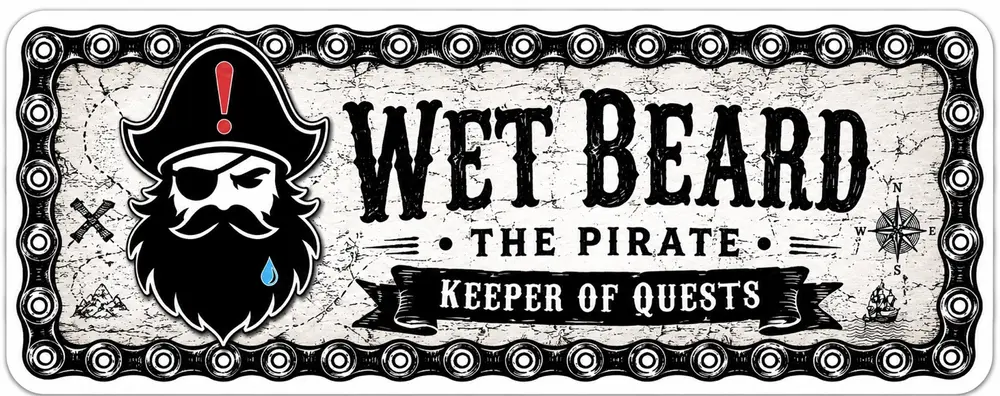
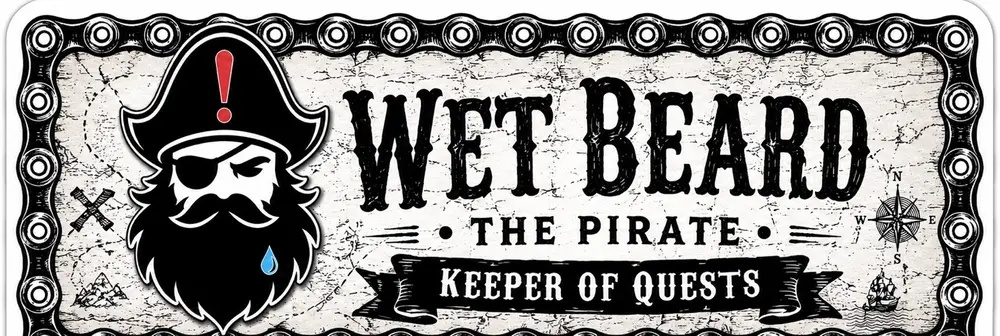
Refine quest-first rider layout

diff --git a/assets/style.css b/assets/style.css
@@ -154,3 +154,15 @@ html,body{background:#181817;color:var(--ink)}
 .admin-table-wrap,.rider-table-wrap{border-color:#333;background:#e7e4dc}.rider-table thead{background:#292928;color:#f3f1eb}.rider-table tbody tr:nth-child(even){background:#d8d5cd}.rider-table tbody tr.selected{background:#c5c2ba;box-shadow:inset 4px 0 #222}
 .live-banner{background:#e5e2da;color:#252524;border-color:#555}.pulse{background:#555;box-shadow:0 0 6px #777}
 footer{color:#343330;text-shadow:0 1px #f5f2e9}
+
+
+/* Quest-first layout refinement. */
+.site-masthead .header-logo{aspect-ratio:1000/336;max-height:172px}.site-masthead .header-logo img{object-fit:cover}
+.site-masthead .rider-strip>strong{font-family:Georgia,"Times New Roman",serif;font-size:15px;letter-spacing:.2px}.site-masthead .rider-star-balance{font-size:14px}.site-masthead .rider-star-balance small{font-size:7px}
+.podium{margin:3px 1px 4px;padding:1px 4px 3px}.board-title{font:900 10px/1.1 system-ui;letter-spacing:1.3px;margin-bottom:1px}.rank-medal{width:23px;height:23px;font-size:12px}.rank-1 .rank-medal{width:27px;height:27px}.rider-name{font:800 11px/1.1 system-ui}.rider-score{font:800 9px/1 system-ui}.rider-score .coin{width:14px;height:14px}
+.quest-wrap{margin:8px 7px 9px}.quest-card{isolation:isolate;min-height:285px;padding:17px 16px 13px 72px;border:4px double #181817;border-radius:6px;background-color:#ece9e1;background-image:linear-gradient(#f5f3edcc,#e7e3dac7),url("img/map-bleached.webp"),url("img/parchment-bleached.webp");background-position:center,center 42%,center;background-size:auto,cover,100% 100%;box-shadow:inset 0 0 0 2px #aaa69e,inset 0 0 25px #55534f38;filter:drop-shadow(0 5px 4px #1b1b1a99)}
+.quest-card:before{content:"N\A▲\A S";white-space:pre;position:absolute;z-index:-1;right:18px;top:48px;width:44px;height:44px;display:grid;place-items:center;border:2px solid #252524;border-radius:50%;color:#252524;text-align:center;font:900 8px/1 Georgia;opacity:.16;transform:rotate(7deg)}
+.quest-heading{margin-bottom:7px;padding-bottom:5px;border-bottom:3px double #55534f;font:1000 clamp(25px,7.5vw,34px)/1 Georgia,"Times New Roman",serif;letter-spacing:.2px}
+.quest-task{min-height:55px;border-bottom:2px dashed #77746e}.task-copy{padding:3px 7px;font:800 clamp(17px,4.8vw,21px)/1.16 Georgia,"Times New Roman",serif;letter-spacing:.1px}.task-value{font:800 10px/1.1 system-ui}.drawn-box{width:29px;height:29px}.quest-footer{margin-top:8px}.quest-footer>span{font:900 10px system-ui}.quest-footer strong{font-size:23px}.anchor-stamp{width:67px;height:67px;right:17px;bottom:32px;opacity:.16}
+.quest-ribbon{left:-5px;top:-9px;width:63px;padding-top:8px}.quest-ribbon small{font-size:10px}.quest-ribbon strong{font-size:20px}
+@media(max-width:390px){.site-masthead .header-logo{max-height:154px}.site-masthead .rider-strip>strong{font-size:13px}.quest-card{min-height:270px;padding-left:65px;padding-right:11px}.quest-task{min-height:52px}.task-copy{font-size:17px}.quest-heading{font-size:25px}.quest-ribbon{width:57px}}

diff --git a/index.html b/index.html
@@ -5,7 +5,7 @@
   <meta name="viewport" content="width=device-width,initial-scale=1,viewport-fit=cover">
   <meta name="theme-color" content="#8c5b2e">
   <title>Wet Beard — Keeper of Quests</title>
-  <link rel="stylesheet" href="assets/style.css?v=20260719-8">
+  <link rel="stylesheet" href="assets/style.css?v=20260719-9">
 </head>
 <body>
   <main class="map-shell">